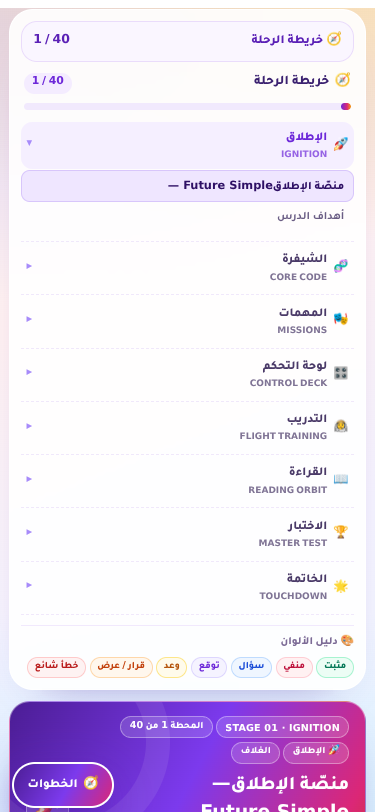
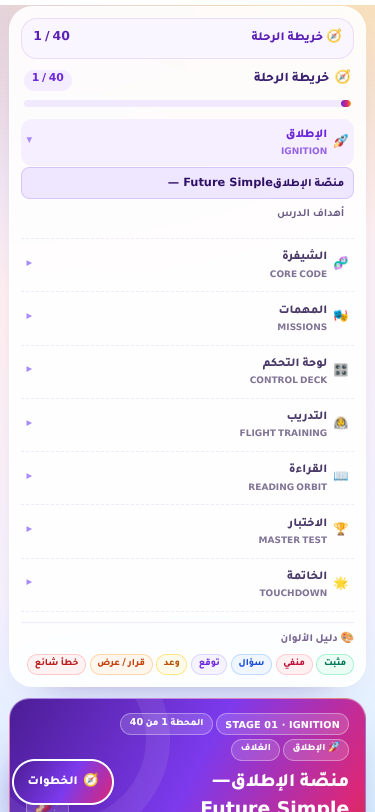
Lesson 34: add interactive V1-after-will trap drill
The source lists the classic V1 mistakes but ships no corrective drill, so
step s4 now carries a platform-authored decision drill with per-option
feedback for exactly the three forms the brief calls out:

  • She will goes …      (no -s after will)
  • She won't to go …    (no to between won't and V1)
  • He will went …       (irregular past returns to V1)

Each row stays unsolved until the correct option is chosen, shows a
specific note for every wrong option, and then reveals the corrected
sentence plus the rule. The drill is required for the s4 completion gate,
and audit-lesson34 now drives it (525 → 533 checks).

diff --git a/src/lessons/lesson34/Steps34.tsx b/src/lessons/lesson34/Steps34.tsx
@@ -19,6 +19,7 @@ import {
   PRONOUN_PICK_S3,
   GOLDEN_VERBS_34,
   ERROR_PAIRS_S4,
+  WILL_TRAPS_S4,
   USE_CARDS_S5,
   MOMENT_EXCHANGES_S6,
   DIALOGUE_HOME_S7,
@@ -78,6 +79,7 @@ import {
   FUTURE_ROADMAP_S38,
   NEXT_STOP_ROW_S38,
   type McRow34,
+  type WillTrap34,
 } from "./data";
 import {
   Lab34,
@@ -535,11 +537,90 @@ function PronounChips34({
   );
 }
 
+/* ---------- s4: مصائد V1 بعد will/won't (إضافة من إعداد المنصة) ---------- */
+function WillTraps34({ rows, drv }: { rows: WillTrap34[]; drv: GateDriver34 }) {
+  const [picks, setPicks] = useState<(number | null)[]>(() => rows.map(() => null));
+  const solved = picks.map((pick, i) => pick !== null && rows[i].options[pick].ok);
+  const count = solved.filter(Boolean).length;
+  useEffect(() => {
+    if (count === rows.length) drv.onDone(true);
+  }, [count, rows.length, drv]);
+  return (
+    <div className="rounded-2xl border border-stone-200 bg-white p-3">
+      <div className="mb-2 text-[12px] font-black text-stone-600">
+        <Rich text="🪤 ثلاث مصائد شائعة — اختر الجملة الصحيحة، وسترى لماذا الخطأ خطأ:" />
+      </div>
+      <Progress34 complete={count} total={rows.length} />
+      <div className="space-y-2">
+        {rows.map((row, i) => {
+          const pick = picks[i];
+          const solvedRow = solved[i];
+          return (
+            <div key={row.n} data-trap-row={i} className="rounded-xl border border-stone-200 p-2.5">
+              <div className="mb-1.5 flex flex-wrap items-center gap-1.5 text-[11px] font-black text-stone-500">
+                <span aria-hidden>{row.n}</span>
+                <Rich text={row.label} />
+              </div>
+              <div className="grid gap-1.5 sm:grid-cols-3" dir="ltr">
+                {row.options.map((option, oi) => {
+                  const chosen = pick === oi;
+                  const good = solvedRow && option.ok;
+                  const bad = chosen && !option.ok;
+                  return (
+                    <button
+                      key={oi}
+                      type="button"
+                      data-trap-row={i}
+                      data-trap-opt={oi}
+                      disabled={solvedRow}
+                      onClick={() =>
+                        setPicks((prev) => {
+                          const next = [...prev];
+                          next[i] = oi;
+                          return next;
+                        })
+                      }
+                      aria-pressed={chosen}
+                      className={`${FOCUS34} rounded-lg border-2 px-2.5 py-2 text-left text-[12px] font-bold leading-6 transition ${
+                        good
+                          ? "border-emerald-500 bg-emerald-50 text-emerald-900"
+                          : bad
+                            ? "border-rose-300 bg-rose-50 text-rose-800"
+                            : "border-stone-200 bg-white text-stone-800 hover:border-emerald-400"
+                      }`}
+                    >
+                      <LatinRuns text={option.text} />
+                    </button>
+                  );
+                })}
+              </div>
+              {pick !== null && !row.options[pick].ok ? (
+                <div className="mt-1.5 rounded-lg border border-rose-200 bg-rose-50 px-2 py-1 text-[11px] font-bold leading-5 text-rose-800">
+                  ✕ <Rich text={row.options[pick].note ?? "ليست الصيغة الأساسية."} />
+                </div>
+              ) : null}
+              {solvedRow ? (
+                <div className="mt-1.5 rounded-lg border border-emerald-200 bg-emerald-50 px-2 py-1 text-[11px] font-bold leading-5 text-emerald-900">
+                  ✓ <span dir="ltr"><LatinRuns text={row.fix} /></span> — <Rich text={row.why} />
+                </div>
+              ) : null}
+            </div>
+          );
+        })}
+      </div>
+    </div>
+  );
+}
+
 /* ---------- s4: القاعدة الذهبية الأولى ---------- */
 function StepS4() {
   const drvVerbs = useGate34(GOLDEN_VERBS_34.length);
   const drvPairs = useGate34(ERROR_PAIRS_S4.length);
-  const done = drvVerbs.complete >= drvVerbs.total && drvPairs.complete >= drvPairs.total;
+  const drvTraps = useGate34(WILL_TRAPS_S4.length);
+  const done =
+    drvVerbs.complete >= drvVerbs.total &&
+    drvPairs.complete >= drvPairs.total &&
+    drvTraps.complete >= drvTraps.total;
   return (
     <StepShell34
       sid="s4"
@@ -559,6 +640,9 @@ function StepS4() {
               drv={drvPairs}
               intro="الأخطاء الشائعة — اختر الجملة الصحيحة في كل زوج:"
             />
+          </div>
+          <div className="mt-3">
+            <WillTraps34 rows={WILL_TRAPS_S4} drv={drvTraps} />
           </div>
           <Hint34>
             <Rich text="انتبه خصوصًا إلى الخطأ الأخير: لا نضع to بين will والفعل الأساسي." />

diff --git a/src/lessons/lesson34/data.ts b/src/lessons/lesson34/data.ts
@@ -276,6 +276,55 @@ export const ERROR_PAIRS_S4: { wrong: string; right: string; why: string }[] = [
 ];
 
 // ============================================================
+// s4 — تدريب إضافي من إعداد المنصة (ليس نصًا مصادرًا):
+// ثلاث مصائد يكرّرها المتعلّم بعد will/won't — لكل خيار ملاحظة
+// تصحيحية خاصة به، ولا تظهر الإجابة الصحيحة قبل اختيار المتعلّم.
+// ============================================================
+export type WillTrap34 = {
+  n: string;
+  label: string;
+  options: { text: string; ok: boolean; note?: string }[];
+  fix: string;
+  why: string;
+};
+
+export const WILL_TRAPS_S4: WillTrap34[] = [
+  {
+    n: "①",
+    label: "فاعل غائب + will",
+    options: [
+      { text: "She will goes to school.", ok: false, note: "goes فيها s — وبعد will لا نضيف s أبدًا." },
+      { text: "She will go to school.", ok: true },
+      { text: "She will going to school.", ok: false, note: "going صيغة ing، و will تحتاج V1." },
+    ],
+    fix: "She will go to school.",
+    why: "بعد will يأتي الفعل الأساسي V1: go — لا goes ولا going.",
+  },
+  {
+    n: "②",
+    label: "النفي won't والفعل",
+    options: [
+      { text: "She won't to go to the party.", ok: false, note: "لا نضع to بين won't والفعل: won't go." },
+      { text: "She won't go to the party.", ok: true },
+      { text: "She doesn't will go to the party.", ok: false, note: "won't هي النفي بنفسها — لا تحتاج doesn't." },
+    ],
+    fix: "She won't go to the party.",
+    why: "won't = will not، وبعدها V1 مباشرة دون to.",
+  },
+  {
+    n: "③",
+    label: "الفعل الشاذ في الماضي",
+    options: [
+      { text: "He will went to the market.", ok: false, note: "went ماضٍ — بعد will نعود إلى go." },
+      { text: "He will gone to the market.", ok: false, note: "gone تصريف ثالث V3، وليس V1." },
+      { text: "He will go to the market.", ok: true },
+    ],
+    fix: "He will go to the market.",
+    why: "سلسلة go → went → gone تتوقف عند will: will go فقط.",
+  },
+];
+
+// ============================================================
 // s5 — وظائف will الست
 // ============================================================
 export const USE_CARDS_S5: { n: string; title: string; ar: string; ex: string; exAr: string }[] = [

diff --git a/docs/lesson34-coverage.md b/docs/lesson34-coverage.md
@@ -56,6 +56,7 @@
 - **§14**: جدول الاختصارات منصوص كامل (I will → I'll … will not = won't).
 - **§20**: المصدر يقارن Who will help us? / Who will you help? دون شرح مطوّل؛ الشرح المختصر (هنا Who هي الفاعل نفسه) منصوص في المصدر ومحفوظ حرفيًا.
 - **§28 و§29**: **مفاتيح الحلول غير منصوصة في المصدر** ← تُشتق وفق قواعد الدرس (after will comes V1) وتُوسم بوضوح بأنها مشتقة.
+- **تدريب «مصائد V1» في §④**: إضافة من إعداد المنصة (3 صفوف: `She will goes` / `She won't to go` / `He will went`) لأن المصدر يعدد الأخطاء دون تدريب تصحيحي تفاعلي؛ كل خيار خاطئ يحمل ملاحظته الخاصة، ولا تظهر الجملة الصحيحة قبل اختيار المتعلّم.
 - **§31**: المواقف الخمسة منصوصة، والرد المناسب مشتق من قواعد الدرس (قرار لحظي ⇒ will).
 - **§33**: الجدول المصدر يتضمن صف Present Perfect غير مذكور في تعليمات «أكمل ذهنيًا»؛ يُدرَّس كاملاً بلا حذف.
 - **§36**: عنوان المهمة ومتطلباتها منصوصة؛ لا مثال منصوص ← لا يُعرض مثال جاهز (تفادي النسخ).
